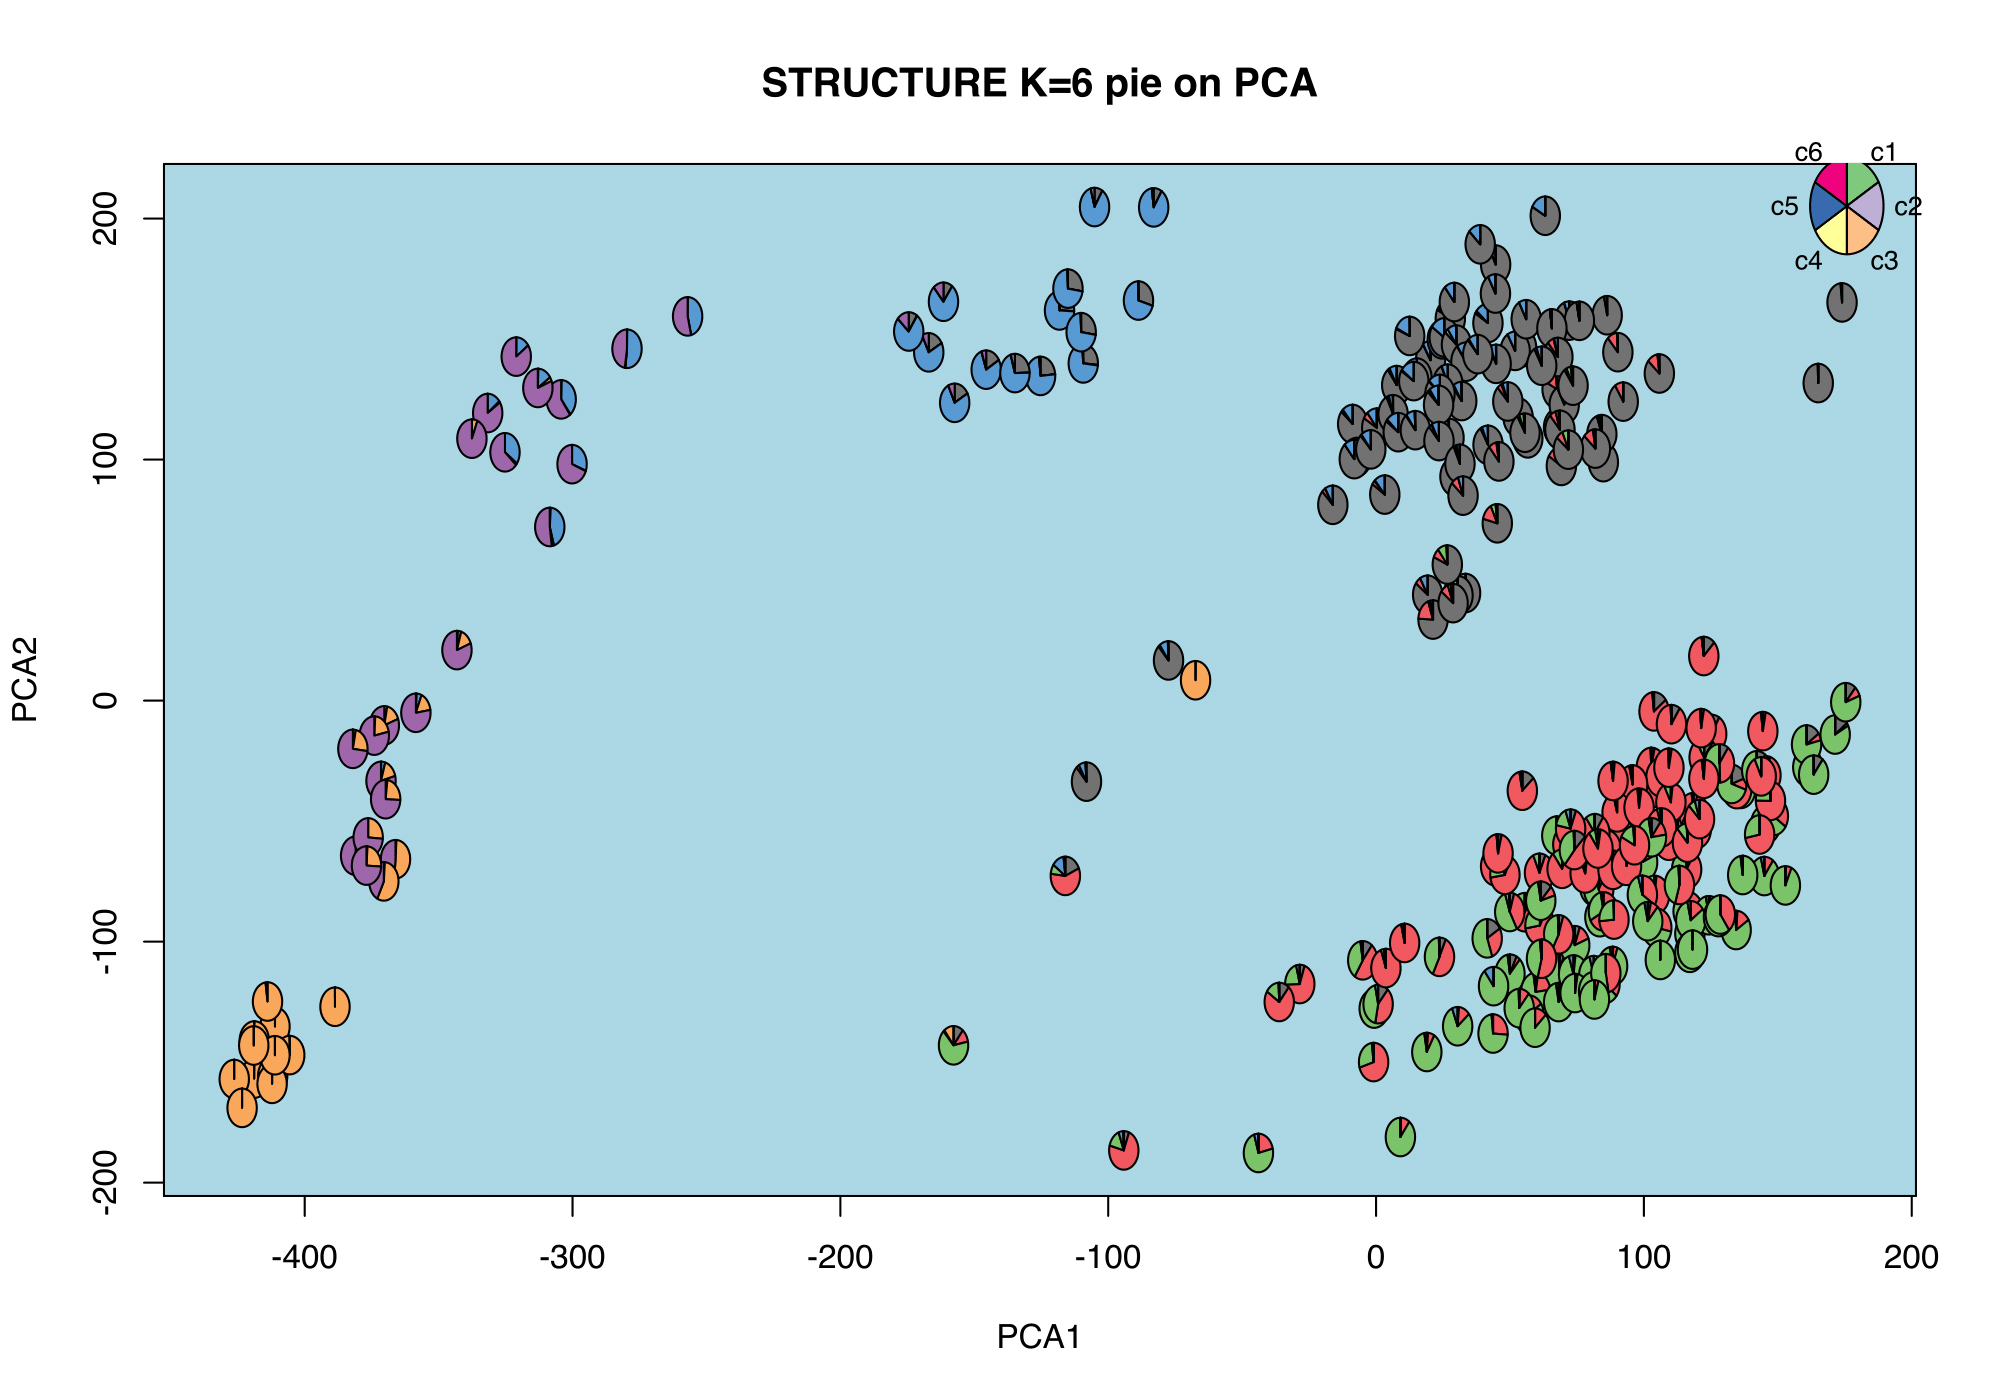
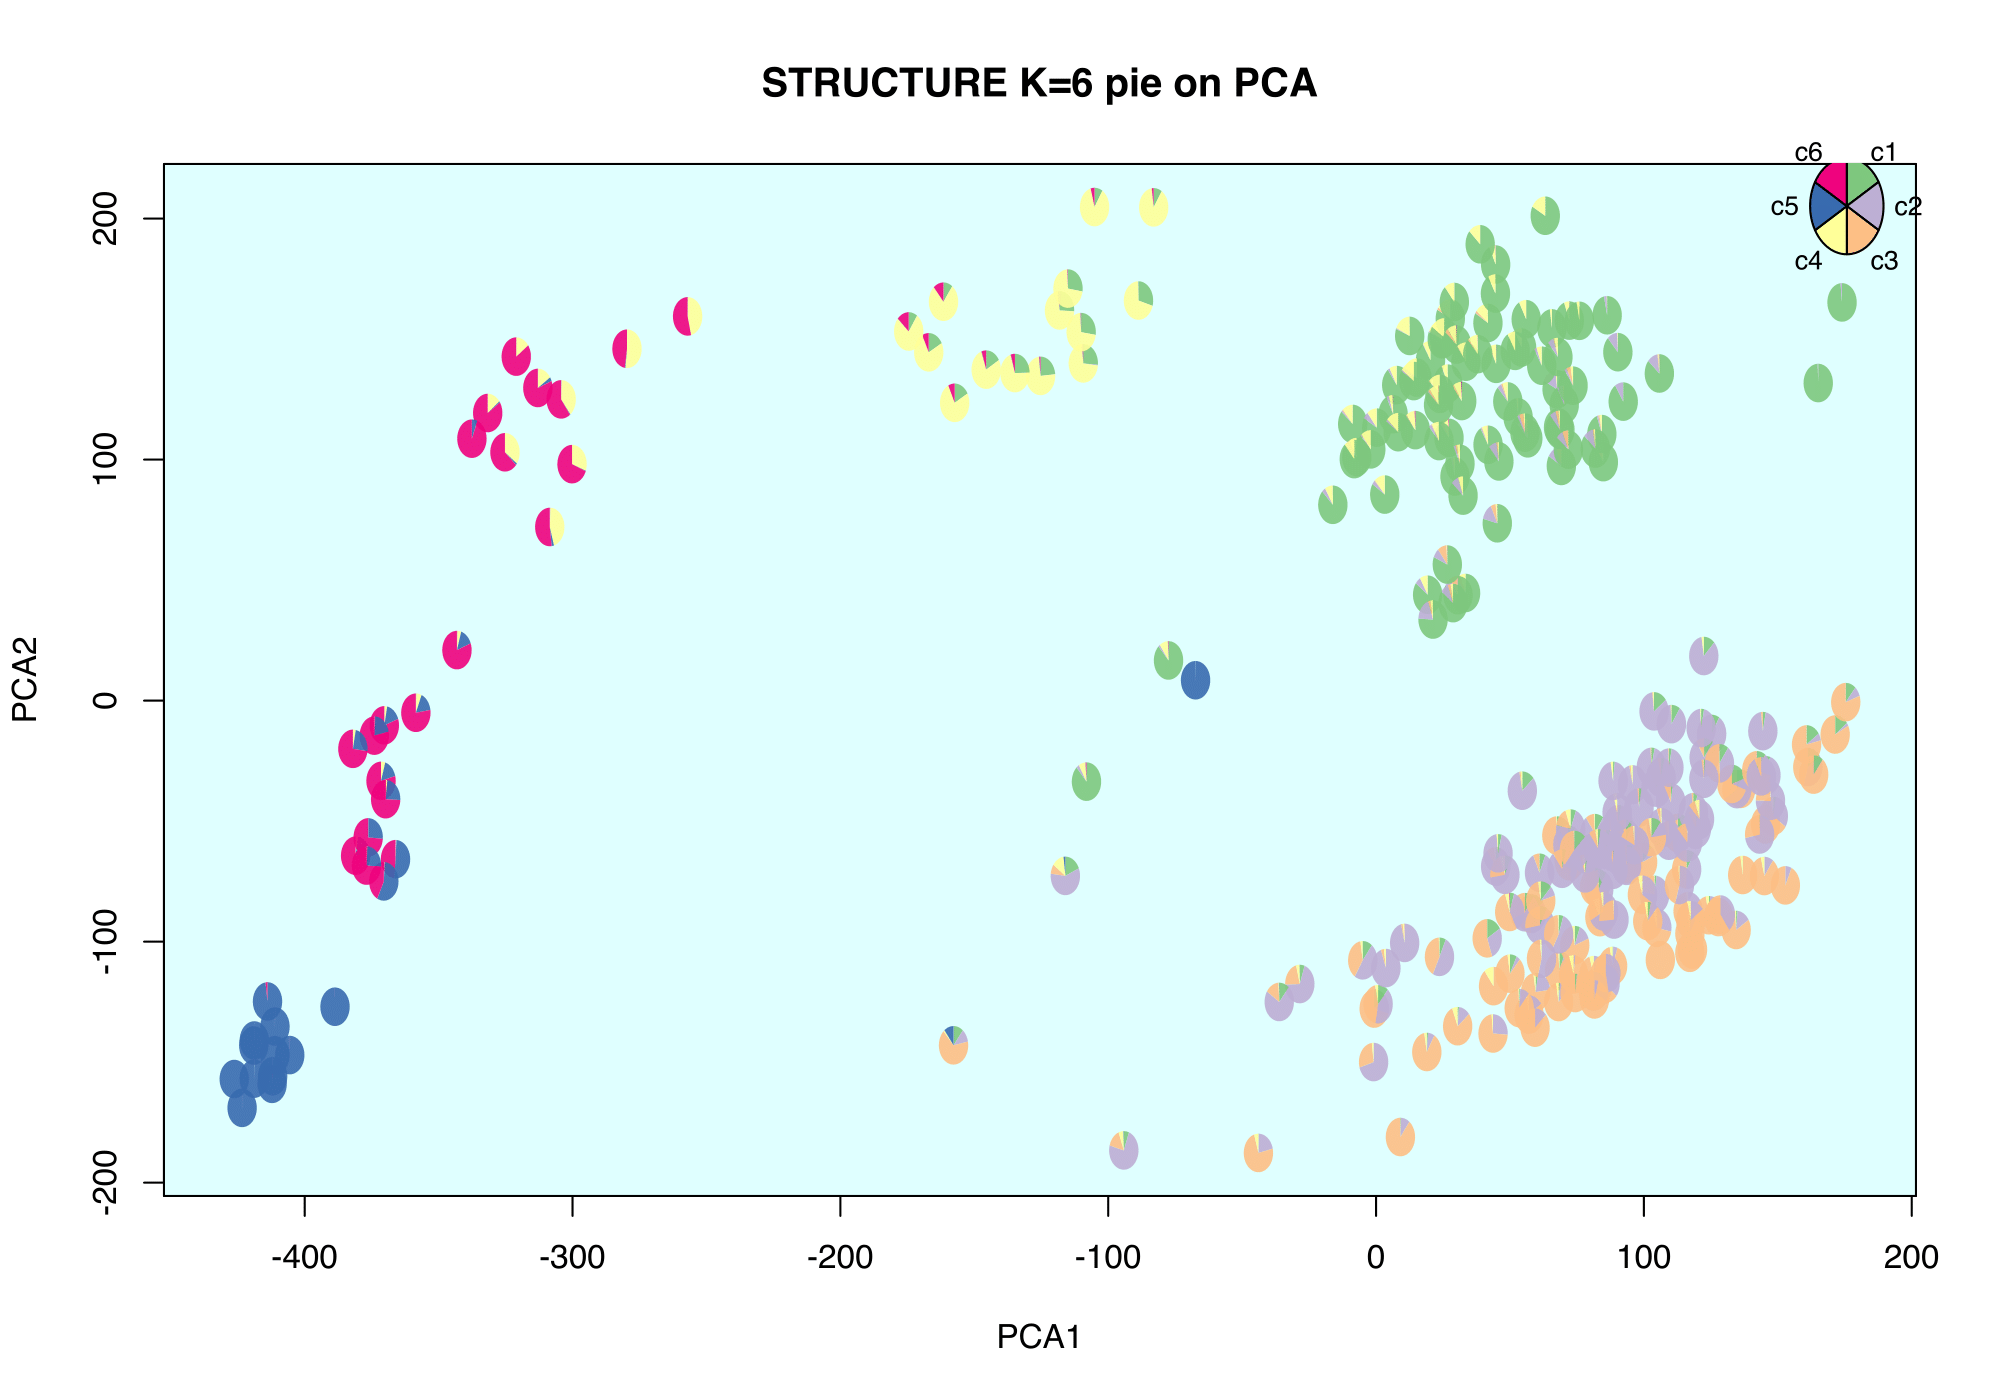
updated structure pie plot with no border default

diff --git a/README.md b/README.md
@@ -127,7 +127,9 @@ t-SNE + CountClust grades coloring
 ```
 StructurePie(t(deng.counts), input_type="apply_tsne",
              use_voom=FALSE, omega = omega, xlab="TSNE1",
-             ylab = "TSNE2", main = "STRUCTURE K=6 pie on tSNE")
+             ylab = "TSNE2",
+             main = "STRUCTURE K=6 pie on tSNE",
+             control = list(bg = "lightcyan"))
 ```
 <img src="vignettes/structure_pie_tsne.png" alt="Structure Plot" height="400" width="600">
 
@@ -135,8 +137,10 @@ PCA + CountClust grades coloring
 
 ```
 StructurePie(t(deng.counts), input_type="apply_pca",
-           use_voom = TRUE, omega = omega, xlab="PCA1",
-           ylab = "PCA2", main = "STRUCTURE K=6 pie on PCA")
+             use_voom = TRUE, omega = omega, xlab="PCA1",
+             ylab = "PCA2",
+             main = "STRUCTURE K=6 pie on PCA",
+             control = list(bg = "lightcyan"))
 ```
 
 <img src="vignettes/structure_pie_pca.png" alt="Structure Plot" height="400" width="600">
